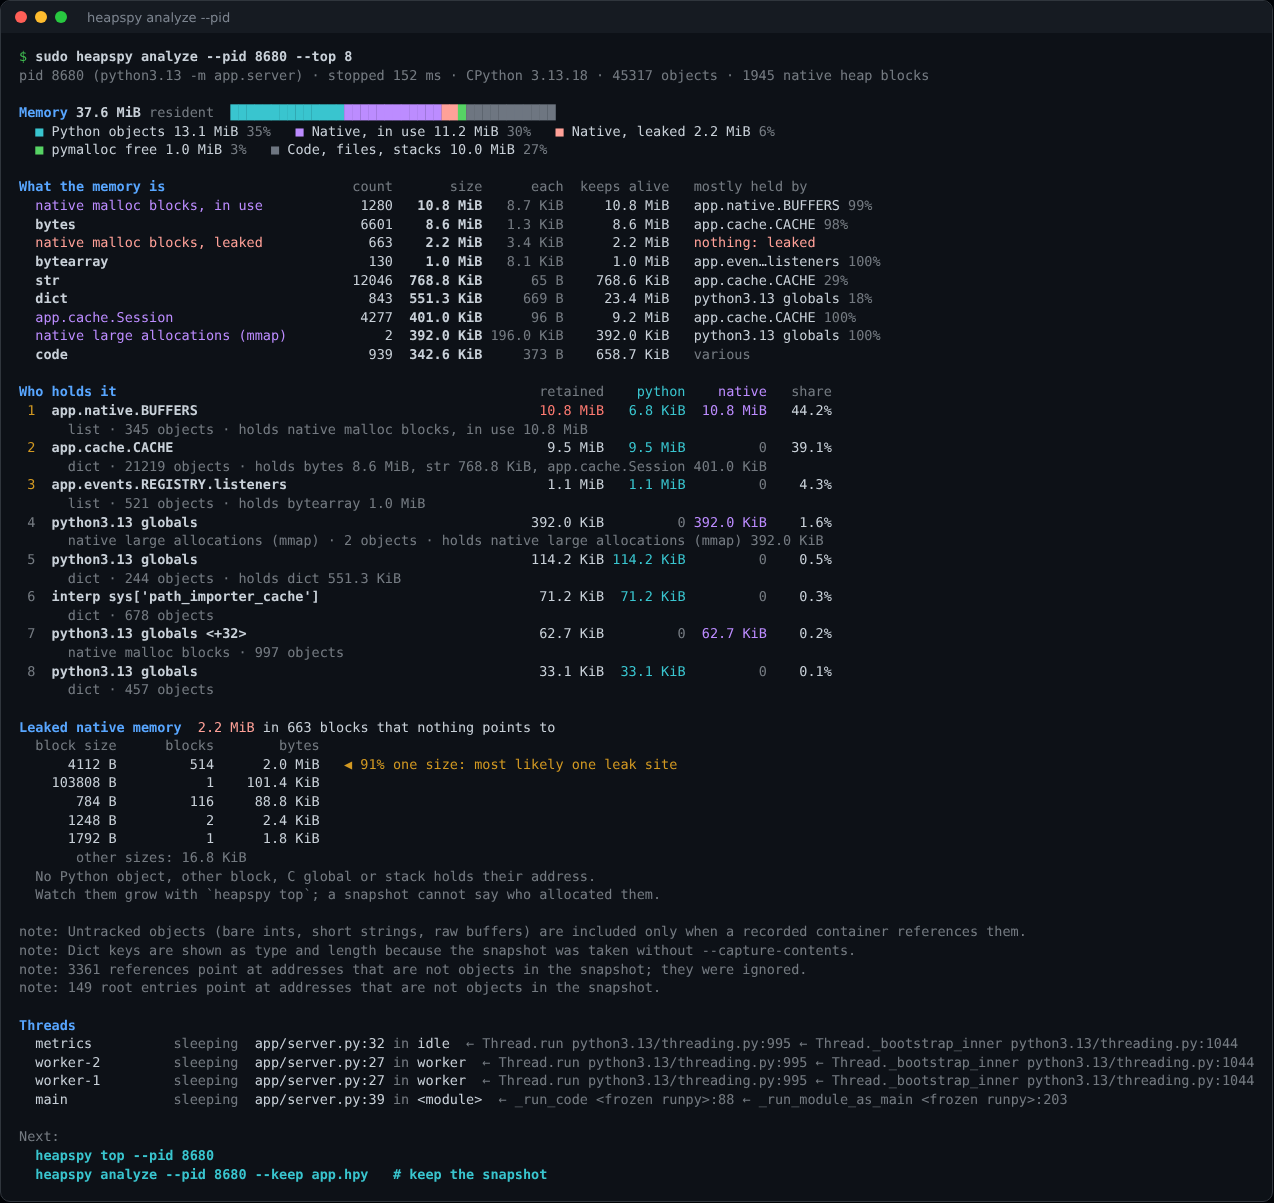
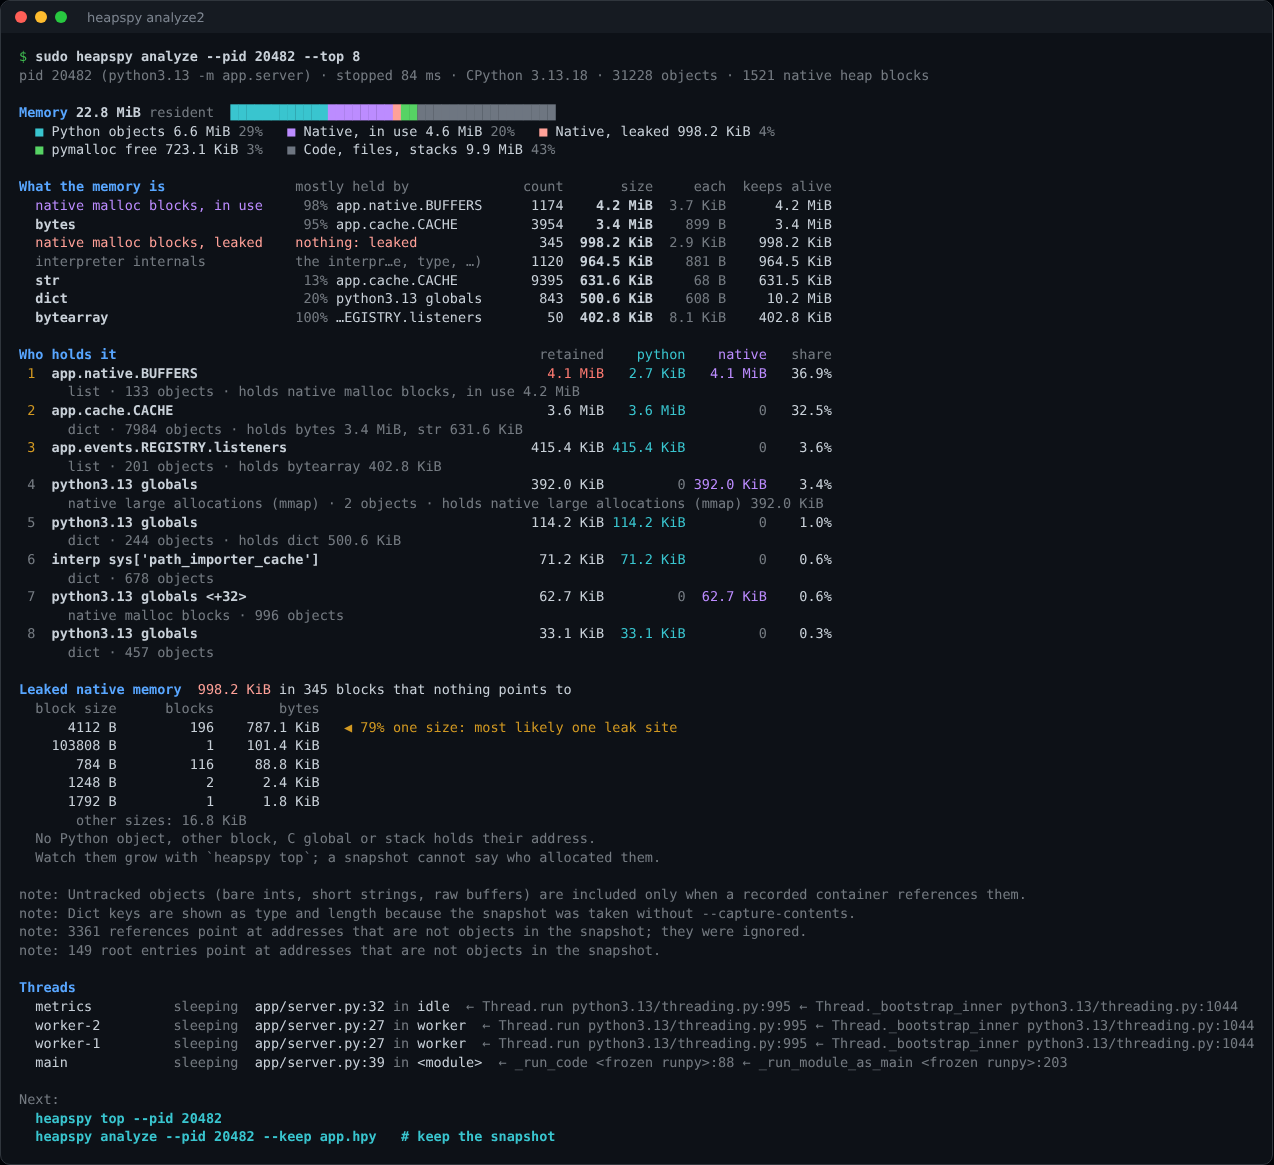
Put what and who holds it side by side
In analyze's "What the memory is" and top's Objects tab, the holder
column now comes right after the type, share first, and the numbers
follow; in top's Holders tab, HOLDS comes right after HOLDER. Long
holder names are cut at their start, keeping the end that names them.

Claude-Session: https://claude.ai/code/session_01HF6bgXawVQQVBaGkoTTUUH

diff --git a/crates/heapspy/src/cmd/top/ui.rs b/crates/heapspy/src/cmd/top/ui.rs
@@ -412,12 +412,12 @@ fn draw_holders(f: &mut Frame, app: &App, area: Rect) {
             };
             Row::new(vec![
                 Line::from(name),
+                Line::from(Span::styled(holds, dim())),
                 Line::from(Span::styled(format_bytes(ret), bold())).right_aligned(),
                 Line::from(cell_bytes(py, Color::Cyan)).right_aligned(),
                 Line::from(cell_bytes(nat, Color::Magenta)).right_aligned(),
                 Line::from(rate_span(rate, ret.max(1))).right_aligned(),
                 Line::from(spark_span(&series, growing)),
-                Line::from(Span::styled(holds, dim())),
             ])
         })
         .collect();
@@ -425,16 +425,16 @@ fn draw_holders(f: &mut Frame, app: &App, area: Rect) {
         f,
         tarea,
         vec![
-            "HOLDER", "RETAINED", "PYTHON", "NATIVE", "Δ/min", " TREND", "HOLDS",
+            "HOLDER", "HOLDS", "RETAINED", "PYTHON", "NATIVE", "Δ/min", " TREND",
         ],
         vec![
-            Constraint::Percentage(34),
+            Constraint::Percentage(28),
+            Constraint::Fill(1),
             Constraint::Length(10),
             Constraint::Length(10),
             Constraint::Length(10),
             Constraint::Length(11),
             Constraint::Length(11),
-            Constraint::Min(16),
         ],
         rows,
         app.selected[Tab::Holders.index()],
@@ -490,19 +490,26 @@ fn draw_objects(f: &mut Frame, app: &App, area: Rect) {
             let series = app.series(10, |p| p.types.get(&k).map(|x| x.1));
             let growing = rb.is_some_and(|x| x > 1024.0);
             let held = if w.leaked {
-                Span::styled("nothing: leaked", Style::default().fg(Color::LightRed))
+                Line::from(Span::styled(
+                    "nothing: leaked",
+                    Style::default().fg(Color::LightRed),
+                ))
             } else if w.key == INTERNALS {
-                Span::styled(
+                Line::from(Span::styled(
                     format!(
-                        "the interpreter ({}) · i expands",
+                        "interpreter · i expands · {}",
                         w.held_by.as_deref().unwrap_or("")
                     ),
                     dim(),
-                )
+                ))
             } else {
                 match &w.held_by {
-                    Some(h) => Span::raw(format!("{} {:.0}%", h, w.held_pct)),
-                    None => Span::styled("various", dim()),
+                    // The share first, so a long name is cut at its end.
+                    Some(h) => Line::from(vec![
+                        Span::styled(format!("{:>3.0}% ", w.held_pct), dim()),
+                        Span::raw(h.clone()),
+                    ]),
+                    None => Line::from(Span::styled("various", dim())),
                 }
             };
             Row::new(vec![
@@ -510,6 +517,7 @@ fn draw_objects(f: &mut Frame, app: &App, area: Rect) {
                     shorten(&w.label, name_w),
                     paint_color(w.paint),
                 )),
+                held,
                 Line::from(w.count.to_string()).right_aligned(),
                 Line::from(count_rate_span(rc)).right_aligned(),
                 Line::from(Span::styled(format_bytes(w.bytes), bold())).right_aligned(),
@@ -517,7 +525,6 @@ fn draw_objects(f: &mut Frame, app: &App, area: Rect) {
                 Line::from(Span::styled(format_bytes(w.bytes / w.count.max(1)), dim()))
                     .right_aligned(),
                 Line::from(spark_span(&series, growing)),
-                Line::from(held),
             ])
         })
         .collect();
@@ -526,23 +533,23 @@ fn draw_objects(f: &mut Frame, app: &App, area: Rect) {
         tarea,
         vec![
             "WHAT",
+            "MOSTLY HELD BY",
             "COUNT",
             "Δ/min",
             "SIZE",
             "Δ/min",
             "EACH",
             " TREND",
-            "MOSTLY HELD BY",
         ],
         vec![
             Constraint::Length(name_w as u16),
+            Constraint::Fill(1),
             Constraint::Length(9),
             Constraint::Length(8),
             Constraint::Length(10),
             Constraint::Length(11),
             Constraint::Length(9),
             Constraint::Length(11),
-            Constraint::Min(20),
         ],
         rows,
         app.selected[Tab::Objects.index()],

diff --git a/crates/heapspy-analyzer/src/render/summary.rs b/crates/heapspy-analyzer/src/render/summary.rs
@@ -461,17 +461,20 @@ fn what_section(out: &mut String, r: &AnalyzeReport, st: &Style, w: usize) {
         return;
     }
     out.push('\n');
-    let name_w = 34usize;
-    let held_w = w.saturating_sub(2 + name_w + 10 + 11 + 10 + 13 + 3).max(24);
+    // What, and who keeps it, side by side; the numbers after.
+    let name_w = 30usize;
+    let held_w = w
+        .saturating_sub(2 + name_w + 2 + 9 + 11 + 9 + 13)
+        .clamp(20, 48);
     let _ = writeln!(
         out,
-        "{}{}{}{}{}   {}",
-        pad_right(&st.paint(Paint::Heading, "What the memory is"), name_w + 2),
-        pad_left(&st.paint(Paint::Dim, "count"), 10),
+        "{}{}{}{}{}{}",
+        pad_right(&st.paint(Paint::Heading, "What the memory is"), name_w + 4),
+        pad_right(&st.paint(Paint::Dim, "mostly held by"), held_w),
+        pad_left(&st.paint(Paint::Dim, "count"), 9),
         pad_left(&st.paint(Paint::Dim, "size"), 11),
-        pad_left(&st.paint(Paint::Dim, "each"), 10),
+        pad_left(&st.paint(Paint::Dim, "each"), 9),
         pad_left(&st.paint(Paint::Dim, "keeps alive"), 13),
-        st.paint(Paint::Dim, "mostly held by")
     );
     let shown = rows.len().min(15);
     for x in &rows[..shown] {
@@ -480,29 +483,27 @@ fn what_section(out: &mut String, r: &AnalyzeReport, st: &Style, w: usize) {
         let held = if x.leaked {
             st.paint(Paint::Leaked, "nothing: leaked")
         } else if x.key == INTERNALS {
-            st.paint(
-                Paint::Dim,
-                format!("the interpreter: {}", x.held_by.as_deref().unwrap_or("")),
-            )
+            st.paint(Paint::Dim, "the interpreter itself")
         } else {
             match &x.held_by {
+                // The share first, so a long name is cut at its end.
                 Some(h) => format!(
                     "{} {}",
-                    shorten(h, held_w.saturating_sub(6)),
-                    st.paint(Paint::Dim, format!("{:.0}%", x.held_pct))
+                    st.paint(Paint::Dim, format!("{:>3.0}%", x.held_pct)),
+                    super::style::shorten_left(h, held_w.saturating_sub(6))
                 ),
                 None => st.paint(Paint::Dim, "various"),
             }
         };
         let _ = writeln!(
             out,
-            "  {}{}{}{}{}   {}",
+            "  {}  {}{}{}{}{}",
             pad_right(&name, name_w),
-            pad_left(&x.count.to_string(), 10),
+            pad_right(&held, held_w),
+            pad_left(&x.count.to_string(), 9),
             pad_left(&st.paint(Paint::Strong, format_bytes(x.bytes)), 11),
-            pad_left(&st.paint(Paint::Dim, each), 10),
+            pad_left(&st.paint(Paint::Dim, each), 9),
             pad_left(&format_bytes(x.retained), 13),
-            held
         );
     }
     if rows.len() > shown {

diff --git a/crates/heapspy-analyzer/src/render/style.rs b/crates/heapspy-analyzer/src/render/style.rs
@@ -133,6 +133,17 @@ pub fn shorten(s: &str, w: usize) -> String {
     format!("{h}…{t}")
 }
 
+/// Plain `s` shortened to at most `w` characters by cutting its start, for
+/// names whose end says the most (`…events.REGISTRY.listeners`).
+pub fn shorten_left(s: &str, w: usize) -> String {
+    let n = s.chars().count();
+    if n <= w || w < 2 {
+        return s.to_string();
+    }
+    let t: String = s.chars().skip(n - (w - 1)).collect();
+    format!("…{t}")
+}
+
 /// A horizontal bar of `width` cells, `frac` of them filled.
 pub fn bar(frac: f64, width: usize) -> (String, String) {
     let cells = (frac.clamp(0.0, 1.0) * width as f64).round() as usize;
@@ -164,6 +175,16 @@ mod tests {
         assert_eq!(s.chars().count(), 15);
         assert!(s.starts_with("sys.mod"));
         assert!(s.ends_with("CACHE']"));
+    }
+
+    #[test]
+    fn shorten_left_keeps_the_end() {
+        assert_eq!(
+            shorten_left("app.events.REGISTRY.listeners", 20),
+            "….REGISTRY.listeners"
+        );
+        assert_eq!(shorten_left("abc", 5), "abc");
+        assert_eq!(shorten_left("abcdef", 4).chars().count(), 4);
     }
 
     #[test]
